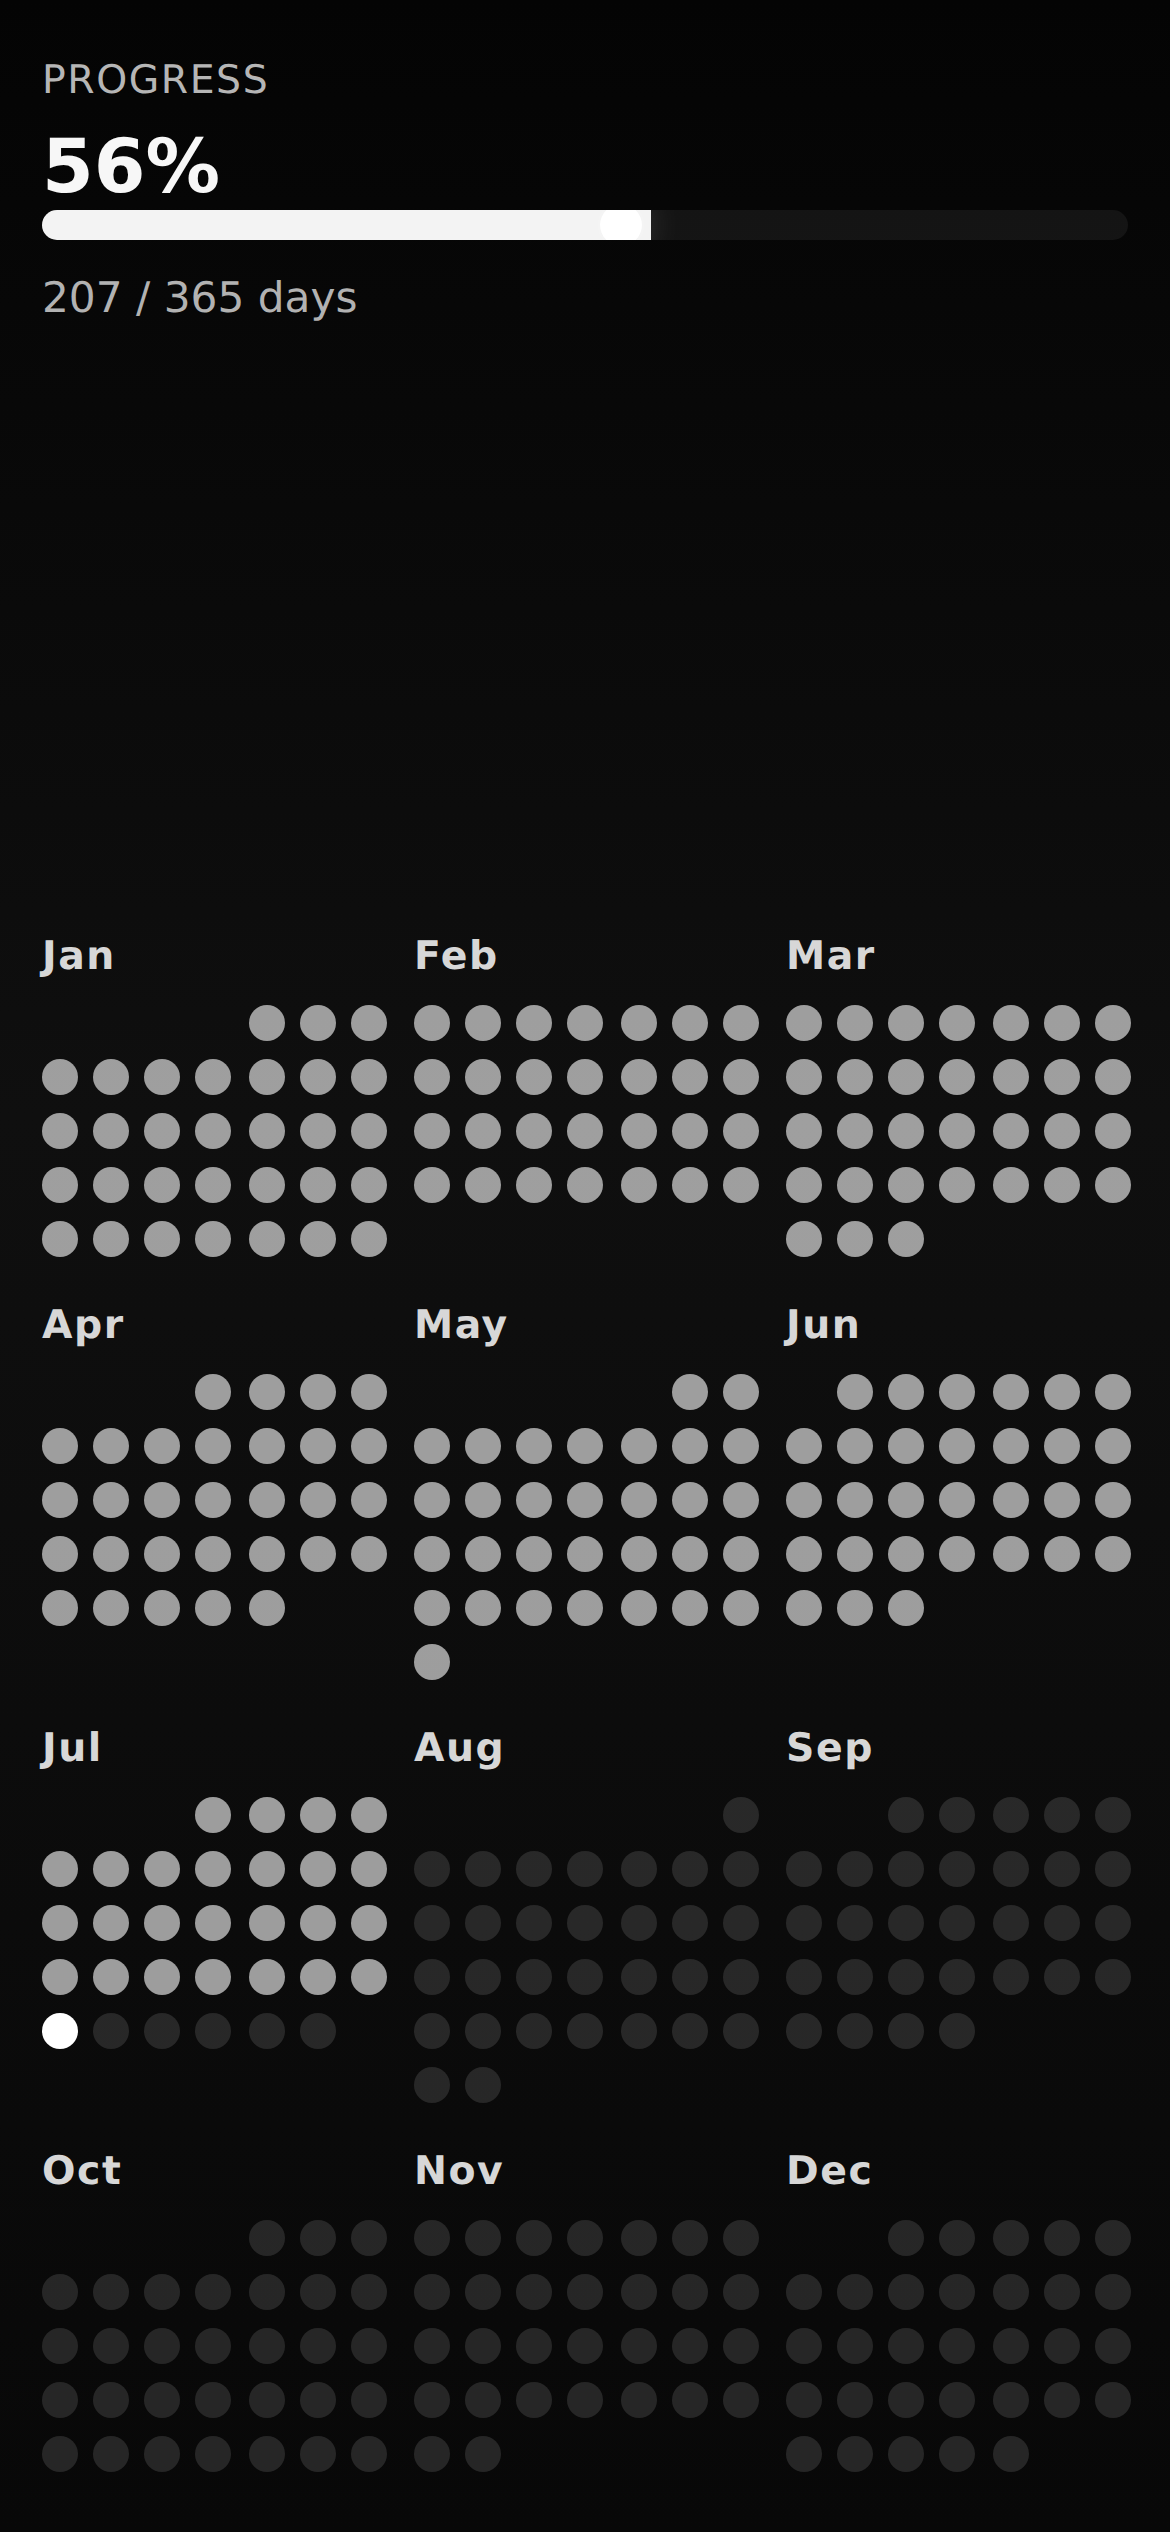
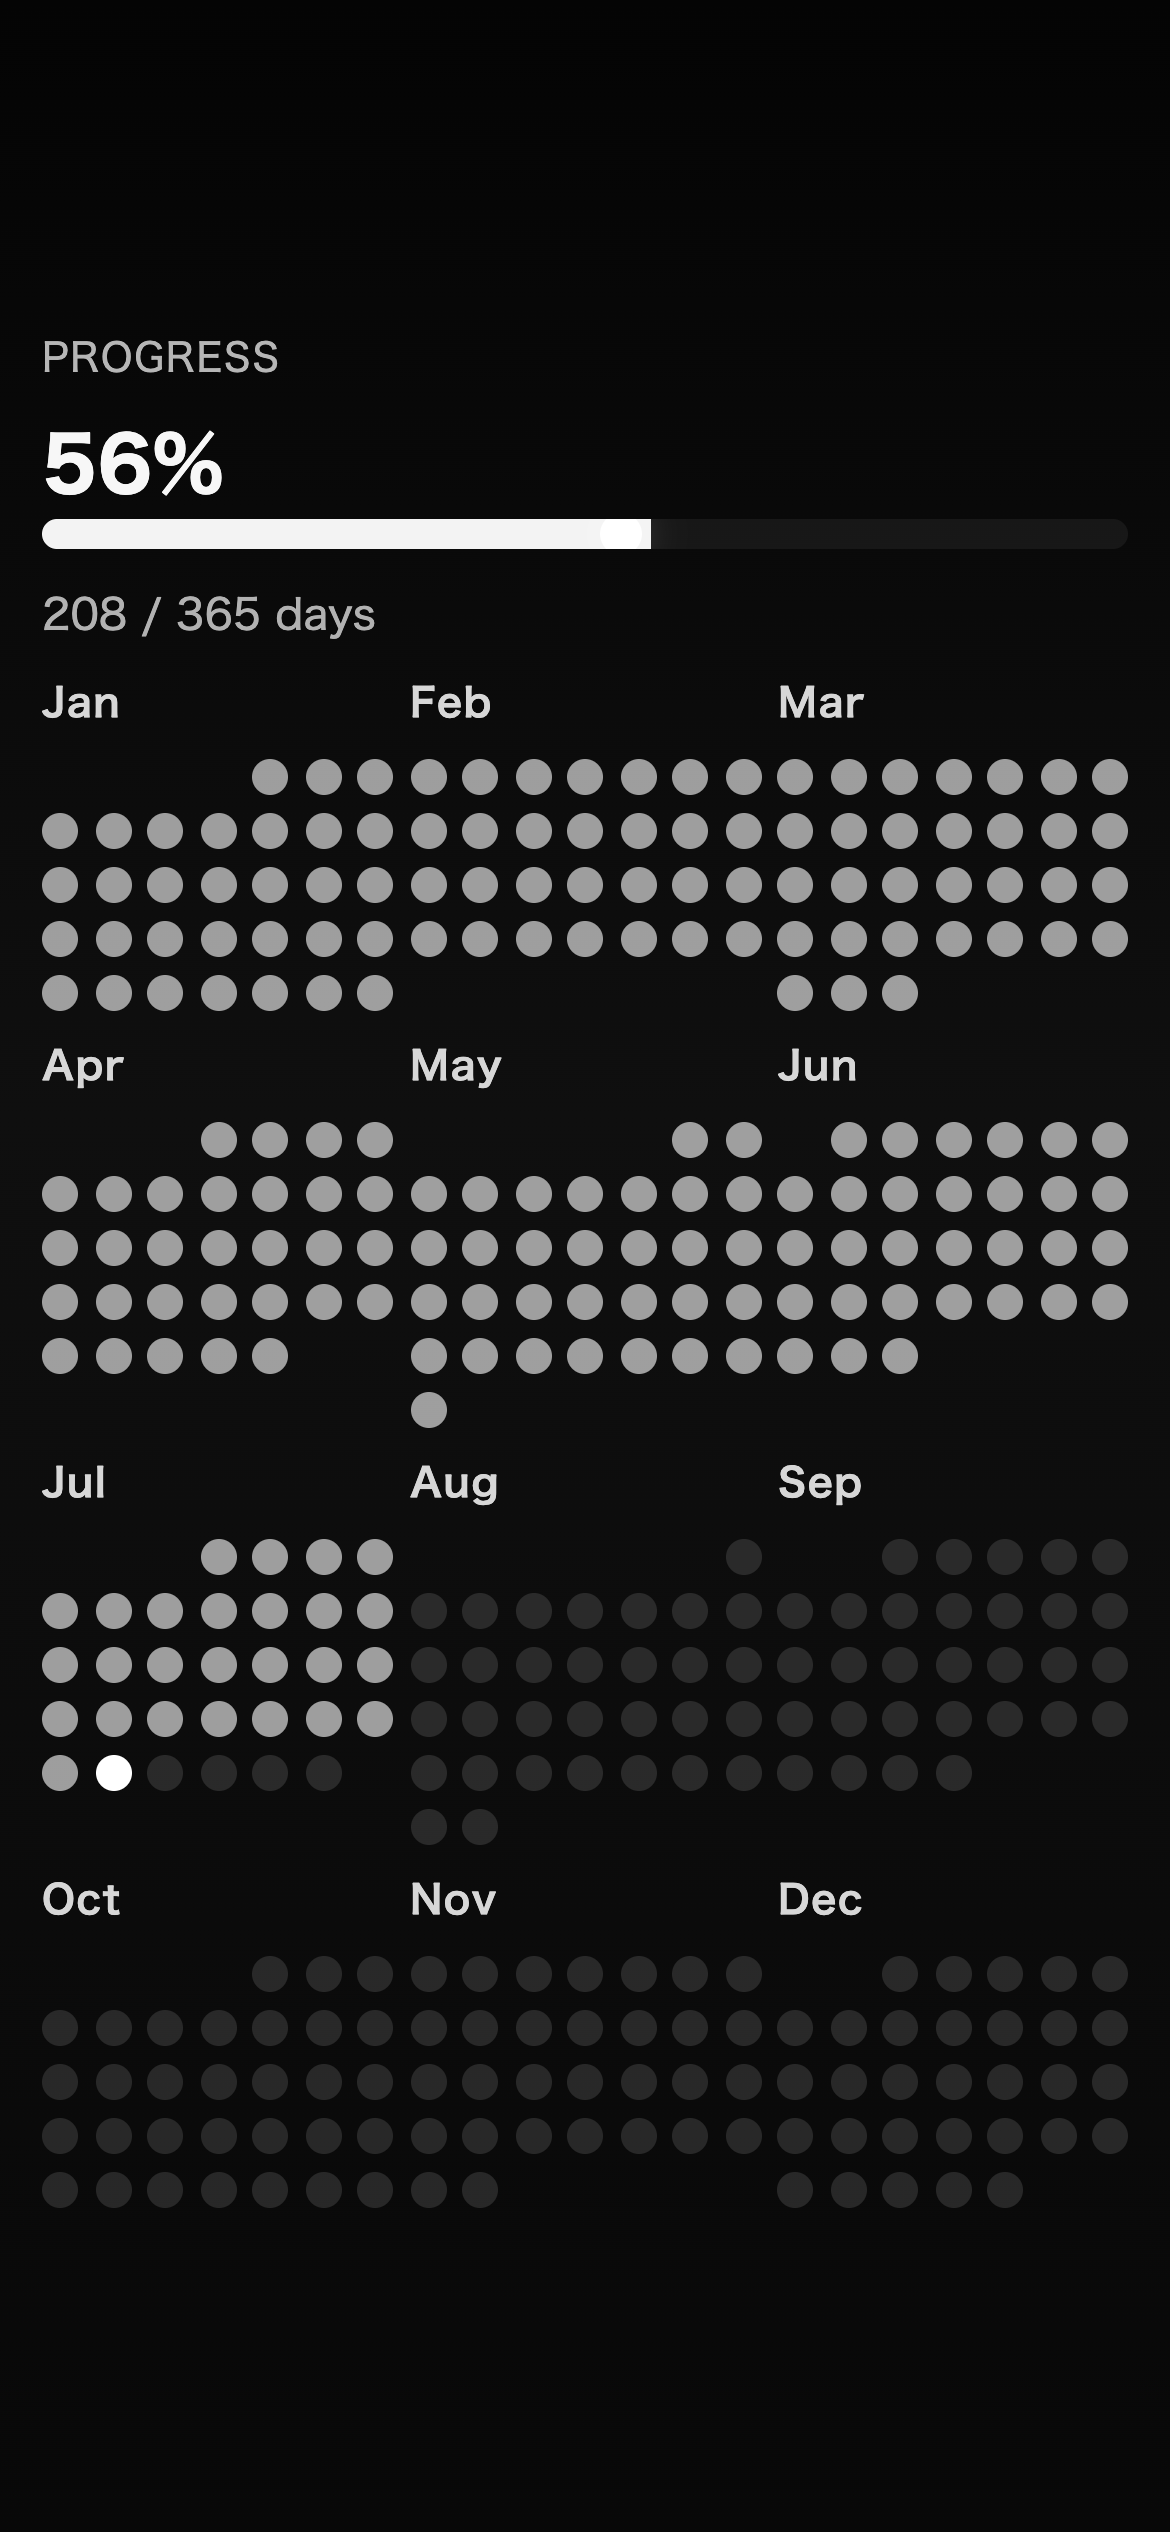
Center wallpaper layout and update generated PNG

Changed region(s): [[0.0308, 0.2496, 0.9846, 0.9984], [0.0308, 0.0312, 0.5538, 0.2808]]

diff --git a/style.css b/style.css
@@ -18,18 +18,18 @@ body {
 
 .wallpaper {
   width: 390px;
-  min-height: 844px;
+  height: 844px;
   margin: 0 auto;
-  padding: 12px 16px 18px;
+  padding: 24px 16px;
   display: flex;
   flex-direction: column;
-  justify-content: space-between;
+  justify-content: center;
 }
 
 .hero {
   display: grid;
   grid-template-columns: 1fr;
-  gap: 12px;
+  gap: 8px;
   margin: 0;
 }
 
@@ -82,8 +82,12 @@ body {
 .months-grid {
   display: grid;
   grid-template-columns: repeat(3, minmax(0, 1fr));
-  gap: 16px 10px;
-  margin-top: auto;
+  gap: 8px 6px;
+  margin-top: 8px;
+}
+
+.hero + .months-grid {
+  margin-top: 8px;
 }
 
 .month-card {
